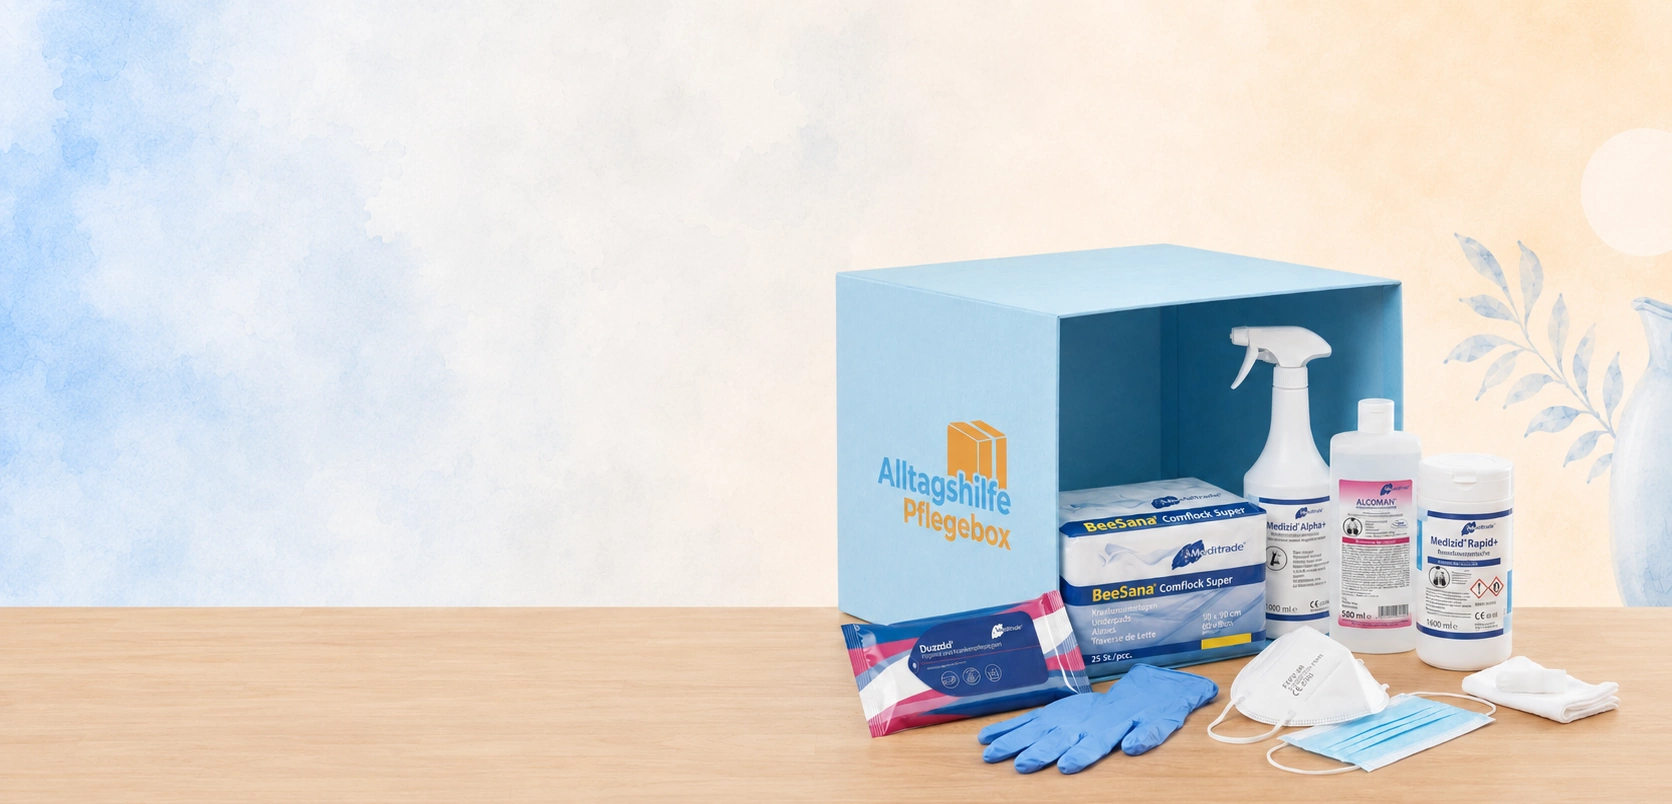
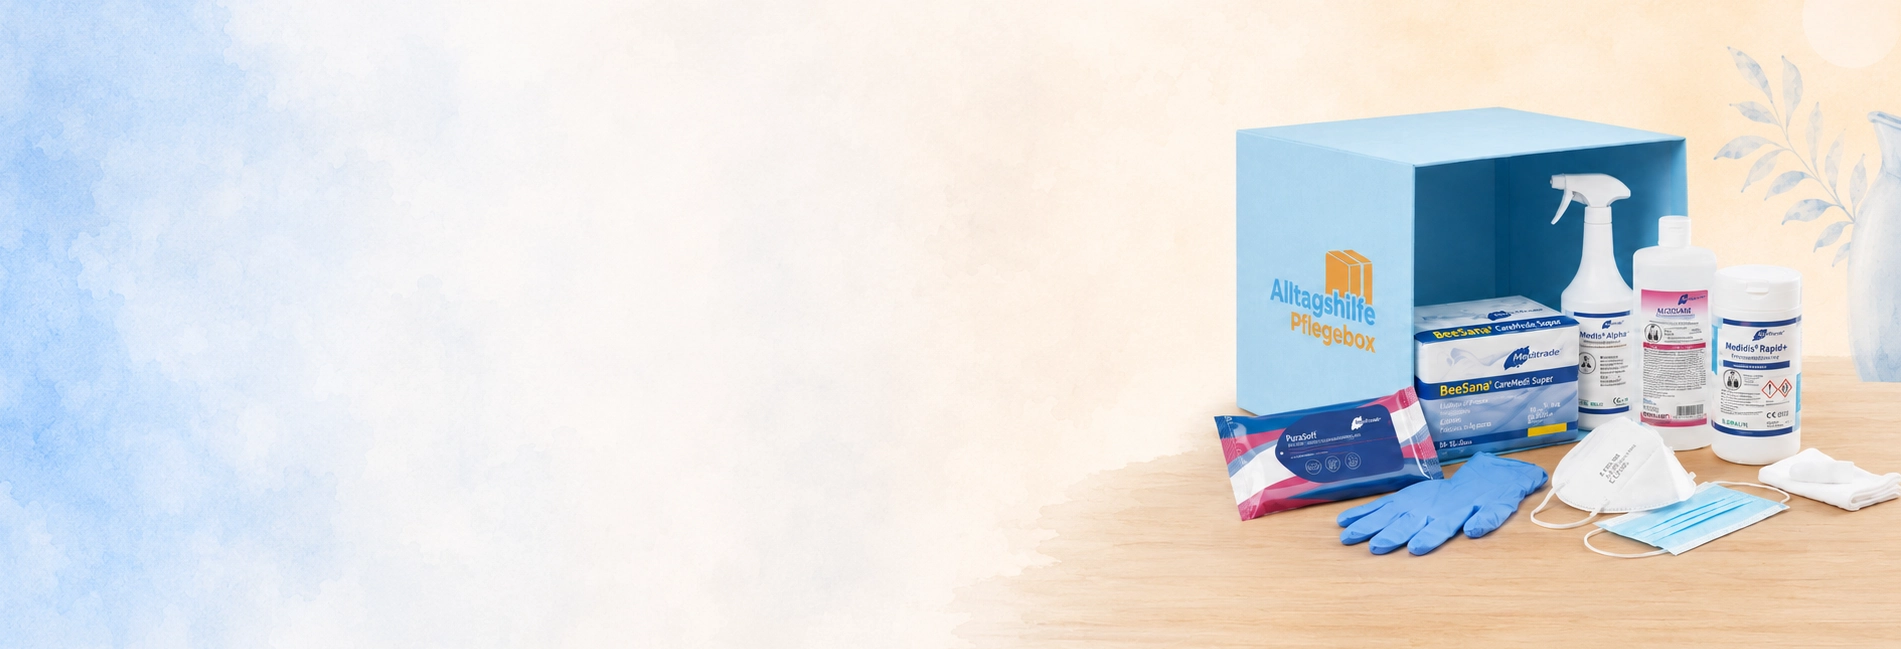
Update from Shopify for theme deinpflegebedarf/main
Committed from shop: DeinPflegebedarf

diff --git a/assets/section-pflege-collection-free-care.css b/assets/section-pflege-collection-free-care.css
@@ -16,20 +16,9 @@
   max-width: min(100%, var(--pflege-hero-tile-max-width, 1426px));
 }
 
-/* Hero auf Kollektionsseite: gleiche Kachel wie Startseite (section-pflege-hero.css) */
-.pfc-free-care .pflege-hero--free-care {
-  padding-top: 0;
-  padding-bottom: clamp(1.35rem, 3vw, 2rem);
-}
-
-.pfc-free-care .pflege-hero--free-care .pflege-hero__shell {
-  max-width: none;
-  width: 100%;
-  margin-left: 0;
-  margin-right: 0;
-  padding-left: max(var(--pflege-inline-gutter, 1rem), env(safe-area-inset-left, 0px));
-  padding-right: max(var(--pflege-inline-gutter, 1rem), env(safe-area-inset-right, 0px));
-  box-sizing: border-box;
+/* Hero: Layout/Typo vollständig in section-pflege-hero.css (.pflege-hero--free-care) */
+.pfc-free-care__below {
+  margin-top: 0;
 }
 
 /* --- Buttons (Vorteile / Pregrid) --------------------------------------- */

diff --git a/assets/section-pflege-hero.css b/assets/section-pflege-hero.css
@@ -1,5 +1,6 @@
 /* PflegeShop — Hero */
-body.template-index .pflege-hero {
+body.template-index .pflege-hero,
+.pflege-hero--free-care {
   padding-top: clamp(0.35rem, 1.15vw, 0.9rem);
 }
 
